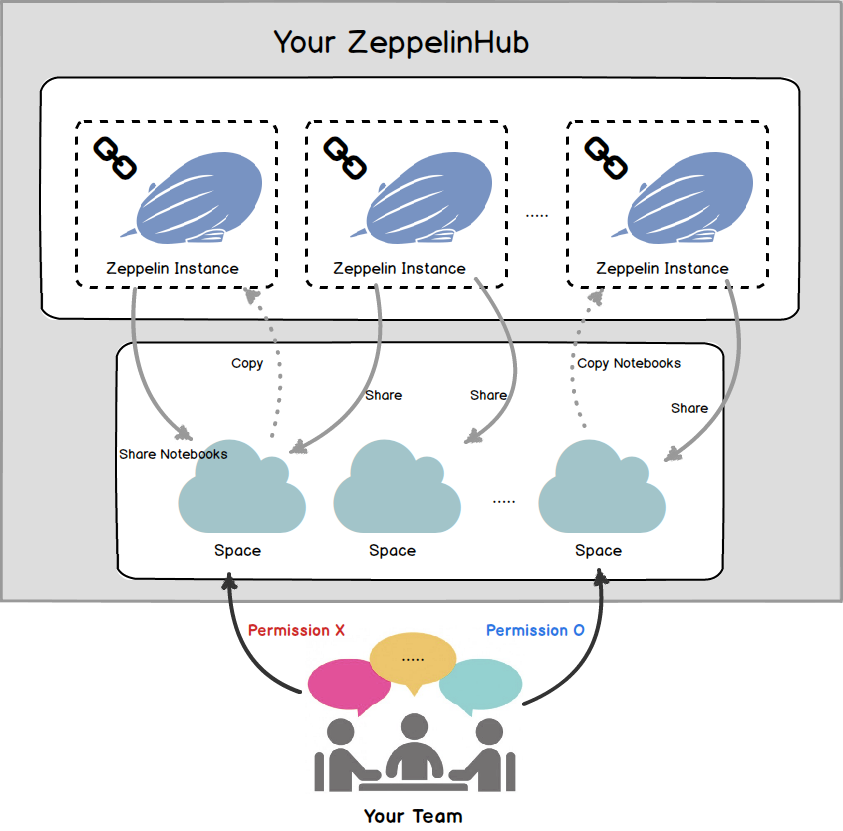
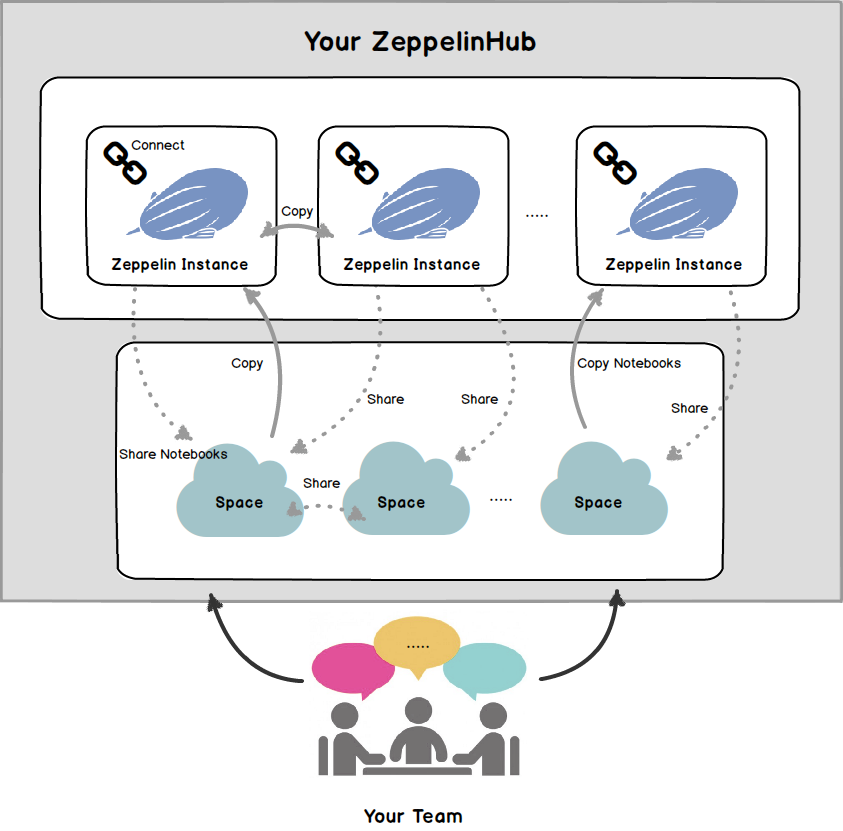
Add a new page: overview.md

diff --git a/docs/overview.md b/docs/overview.md
@@ -1,0 +1,29 @@
+# Overview
+
+Welcome to ZeppelinHub! 
+
+ZeppelinHub enables you to share your Zeppelin notebooks. Once you register and integrate Zeppelin with ZeppelinHub, you can privately share your notebooks and communicate via the notebooks with your team members. The following illustration shows a basic concept of ZeppelinHub.  
+
+<center><img src="./images/zeppelinhub_concept.png" height="70%" width="70%"></center>
+
+For trully using ZeppelinHub service, there are some componets and processes needed to understand. 
+
+* **Your ZeppelinHub Account** <br/>
+It is pretty straightforward to join ZeppelinHub. When you create an account, you will be asked for your **Registration Code**. Since it is not a unique code for only one person, you can share this code within your organization and invite people. More detailed informations is in [Register your Invitation Code](./register_invitation_code.html) section.
+
+* **Zeppelin Instance** <br/>
+You might wonder how you can install and configure Zeppelin. If so, please read [Zeppelin Installation](http://zeppelin.incubator.apache.org/docs/latest/install/install.html) first. As you can see in the above illustrartion, you can manage several **Zeppelin instances** in your ZeppelinHub account. ( An **Instance** is not a strange word. It is just a unit of Zeppelin. ) Once you add a new instance in Hub, it will generate a unique **token** only for that Zeppelin instance. This token is used to integrate your Zeppelin instance with ZeppelinHub. More specific explanation is in [Zeppelin integration with ZeppelinHub](./zeppelin_integration.html).
+
+* **Space** <br/>
+ZeppelinHub space is a unit of sharing notebooks. Likewise adding Zeppelin instances, you can also create and have several spaces at once. Space allows you to gather your notebooks and notebooks shared with you. It's a convenient way to organize notebooks. Please visit [How you can share notebooks?](./sharing_notebooks.html) section.
+
+* **Who can access** <br/>
+When you create a space, you can add members so that they can have an access permission. Also, you can freely add more people in the future. For the specific informtaion about the permission, please read [Inviting users to your Space](./invite_users.html) section.
+
+
+ 
+
+
+
+
+
